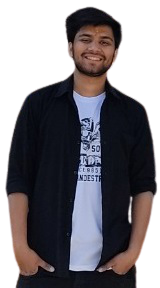
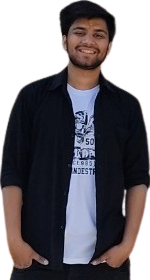
crop pics & clean the code

diff --git a/webpage/about/about-style.css b/webpage/about/about-style.css
@@ -59,44 +59,28 @@
   flex-direction: column;
   width: 100%;
 }
-.member-nitesh {
+.member {
   display: inline-flex;
   width: 99%;
-  background: white;
-  height: 400px;
-  order: 0;
   justify-content: center;
   align-items: center;
+  height: 400px;
+}
+.member-nitesh {
+  background: white;
+  order: 0;
 }
 .member-shivang {
-  display: inline-flex;
-  width: 99%;
   background-color: rgb(204, 118, 60);
-  height: 400px;
   order: 1;
-  justify-content: center;
-  align-items: center;
 }
-
 .member-shubham {
-  display: inline-flex;
-  height: 600px;
-  width: 99%;
   background-color: rgb(92, 143, 238);
-  height: 400px;
   order: 2;
-  justify-content: center;
-  align-items: center;
 }
 .member-kartick {
-  display: inline-flex;
-  height: 600px;
-  width: 99%;
   background-color: rgb(161, 24, 31);
-  height: 400px;
   order: 3;
-  justify-content: center;
-  align-items: center;
 }
 
 .hlo {
@@ -111,8 +95,6 @@
 }
 
 .founder-details {
-  /* display: inline-flex; */
-
   font-family: Georgia, "Times New Roman", Times, serif;
   margin: 0;
 }
@@ -148,11 +130,10 @@ a {
 .member-detail {
   display: inline-block;
   width: 70%;
-  padding: 30px 40px 30px 40px;
+  padding: 30px 40px;
 }
 
-.nit-pic,
-.shiv-pic {
+.member-pic {
   display: inline-flex;
   width: 30%;
   border-radius: 10px;
@@ -160,8 +141,7 @@ a {
   align-items: center;
   justify-content: center;
 }
-.nit-pic img,
-.shiv-pic img {
+.member-pic img {
   width: 300px;
   height: 300px;
   box-shadow: 22px 20px 24px -5px black;
@@ -187,10 +167,7 @@ a {
   .inner-member-right {
     font-size: 25px;
   }
-  .member-kartick,
-  .member-nitesh,
-  .member-shivang,
-  .member-shubham {
+  .member {
     flex-direction: column;
     height: unset;
   }
@@ -198,10 +175,24 @@ a {
     width: 100%;
     order: 1;
   }
-  .nit-pic,
-  .shiv-pic {
+  .member-pic {
     width: 100%;
     order: 0;
+  }
+}
+@media (max-width: 500px) {
+  .header-member {
+    margin: 10px 0;
+  }
+  .member-detail {
+    padding: 15px 20px;
+  }
+  .header-member p {
+    margin: 20px 0 10px 0;
+  }
+  .ace-logo img,
+  .ace-logo2 img {
+    width: 250px;
   }
 }
 :root {

diff --git a/webpage/about/about.html b/webpage/about/about.html
@@ -2,7 +2,6 @@
 <html lang="en">
   <head>
     <meta charset="UTF-8" />
-
     <meta name="viewport" content="width=device-width, initial-scale=1.0" />
     <link rel="stylesheet" href="../../style.css" />
     <link rel="stylesheet" href="about-style.css" />
@@ -99,7 +98,7 @@
           </div>
 
           <div class="member-container">
-            <div class="member-nitesh">
+            <div class="member member-nitesh">
               <div class="member-detail">
                 <p class="hlo">Hi, i'm</p>
                 <h1 id="nitesh-Detail" class="name">NITESH</h1>
@@ -185,12 +184,12 @@
                   </ul>
                 </div>
               </div>
-              <div class="nit-pic">
+              <div class="member-pic">
                 <img src="aboutUsPics/Capture.JPG" alt="">
               </div>
             </div>
-            <div class="member-shivang">
-              <div class="shiv-pic">
+            <div class="member member-shivang">
+              <div class="member-pic">
                 <img src="aboutUsPics/Capture.JPG" alt="">
               </div>
               <div class="member-detail">
@@ -279,7 +278,7 @@
                 </div>
               </div>
             </div>
-            <div class="member-shubham">
+            <div class="member member-shubham">
               <div class="member-detail">
                 <p class="hlo">Hi, i'm</p>
                 <h1 id="shubham-Detail" class="name">Shubham</h1>
@@ -364,12 +363,12 @@
                   </ul>
                 </div>
               </div>
-              <div class="nit-pic">
+              <div class="member-pic">
                 <img src="aboutUsPics/Capture.JPG" alt="">
               </div>
             </div>
-            <div class="member-kartick">
-              <div class="shiv-pic">
+            <div class="member member-kartick">
+              <div class="member-pic">
                 <img src="aboutUsPics/Capture.JPG" alt="">
               </div>
               <div class="member-detail">
